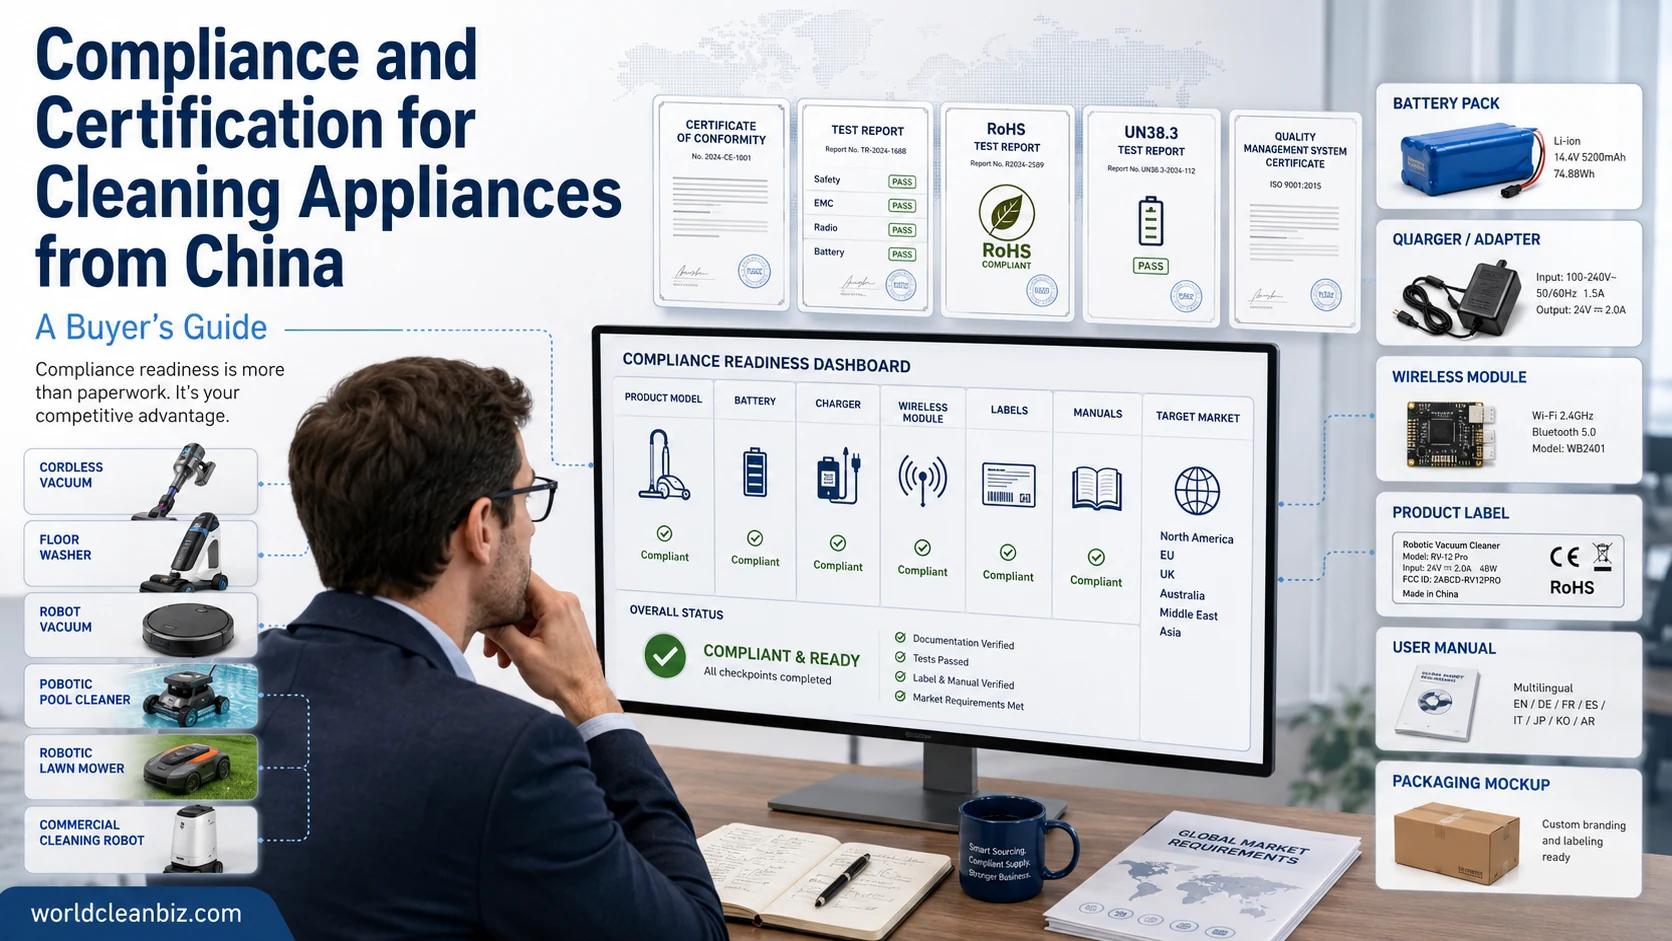
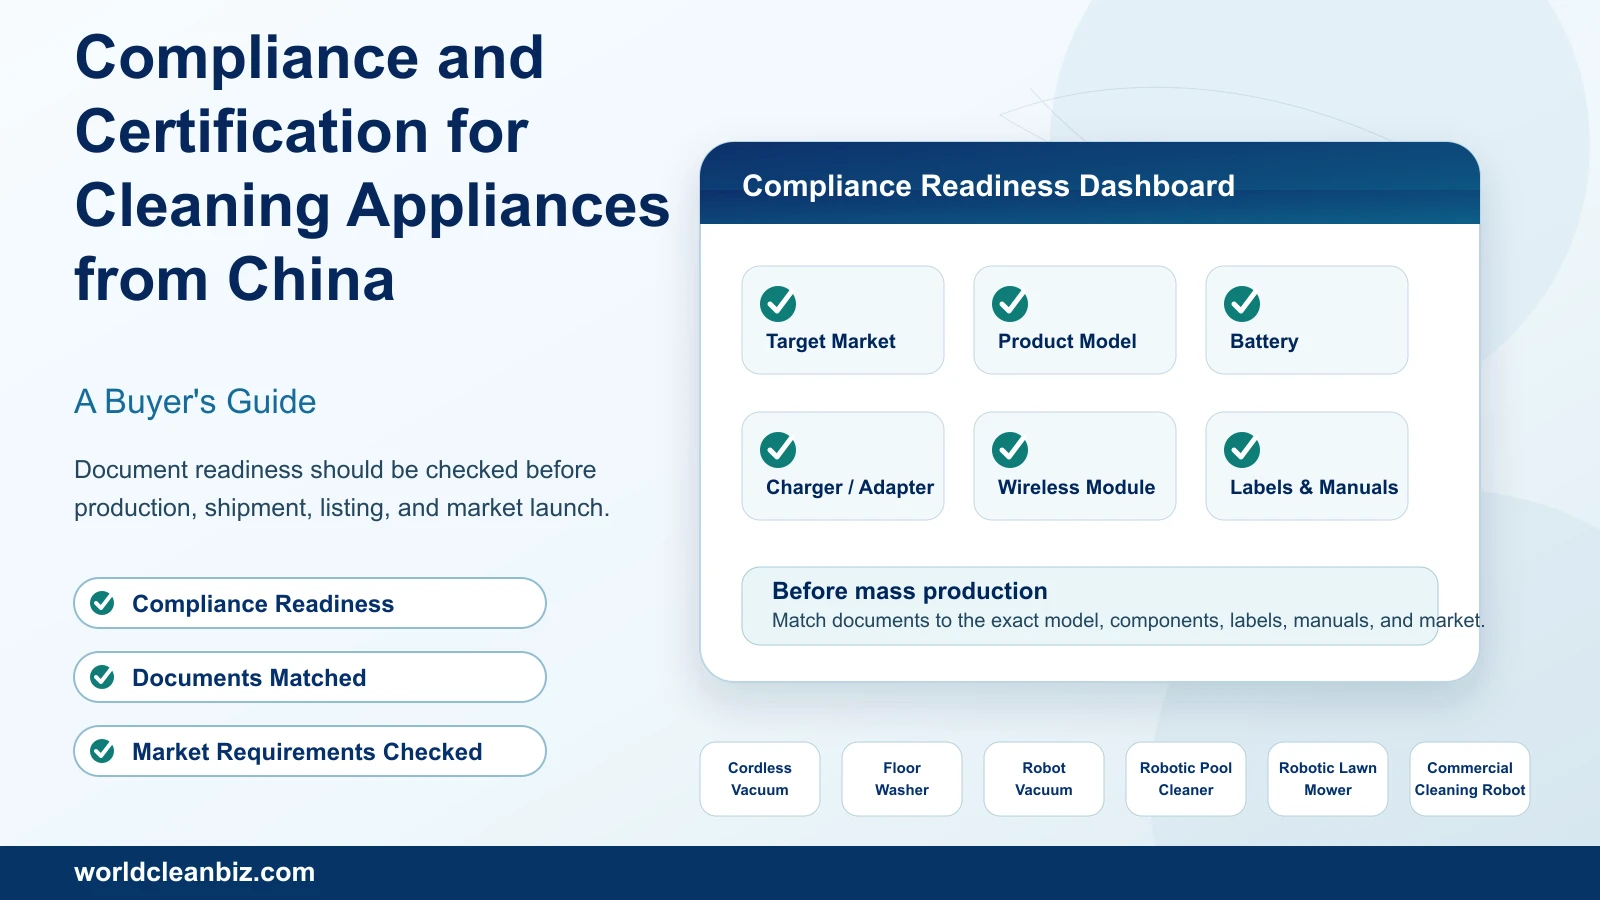
Fix compliance guide image mapping

diff --git a/app/blog/[slug]/page.tsx b/app/blog/[slug]/page.tsx
@@ -15,6 +15,11 @@ type Props = {
 
 const siteUrl = "https://worldcleanbiz.com";
 const relatedArticleOverrides: Record<string, string[]> = {
+  "compliance-certification-cleaning-appliances-china": [
+    "quality-control-cleaning-appliances-china",
+    "how-to-evaluate-a-chinese-cleaning-appliance-supplier",
+    "oem-vs-odm-cleaning-products"
+  ],
   "private-label-cleaning-products-from-china": [
     "oem-vs-odm-cleaning-products",
     "factory-vs-trading-company-china-cleaning-appliances",